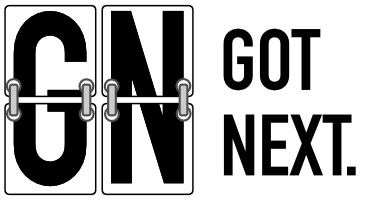
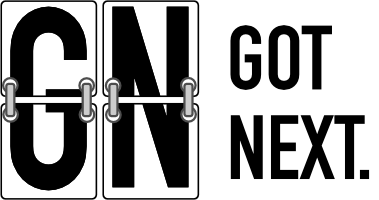
Make title tab as well; add formatting

diff --git a/app/assets/stylesheets/modules/_header.scss b/app/assets/stylesheets/modules/_header.scss
@@ -10,7 +10,7 @@ $menu-inverse-color: $white;
   height: 100%;
   width: 100%;
   background: $menu-color;
-  z-index: 25;
+  z-index: 30;
   ul {
     text-align: center;
     text-decoration: none;
@@ -24,12 +24,34 @@ $menu-inverse-color: $white;
   }
 }
 
-#title-image {
+#title-image-large {
   position: absolute;
   top: 0;
   left: 0;
+  margin-top: 1rem;
   height: $menu-dimension;
-  margin: .8rem 0 0 .8rem;
+  padding: .8rem;
+  background: $white;
+  z-index: 25;
+  border: 2px solid $body-font-color;
+  border-left: 0;
+  border-top-right-radius: .5rem;
+  border-bottom-right-radius: .5rem;
+}
+
+#title-image-small {
+  position: absolute;
+  top: 0;
+  left: 0;
+  margin-top: 1rem;
+  height: 5rem;
+  padding: .8rem;
+  background: $white;
+  z-index: 25;
+  border: 2px solid $body-font-color;
+  border-left: 0;
+  border-top-right-radius: .5rem;
+  border-bottom-right-radius: .5rem;
 }
 
 #tab-profile {
@@ -44,11 +66,15 @@ $menu-inverse-color: $white;
     // border: $menu-color solid;
     // border-width: .1rem 0 .1rem .1rem;
     margin-top: 1rem;
+    border-top-left-radius: .5rem;
+    border-bottom-left-radius: .5rem;
     img {
       display: inline-block;
       height: $menu-dimension;
       width: $menu-dimension;
       vertical-align: top;
+      border-top-left-radius: .5rem;
+      border-bottom-left-radius: .5rem;
     }
     button {
       display: inline-block;
@@ -73,6 +99,8 @@ $menu-inverse-color: $white;
         width: 5rem;
         font-size: 2rem;
         background: $app-red;
+        border-top-left-radius: .5rem;
+        border-bottom-left-radius: .5rem;
         i {
           text-align: center;
           margin-left: -.2rem;

diff --git a/app/assets/javascripts/test.js b/app/assets/javascripts/test.js
@@ -5,4 +5,9 @@ $(document).ready(function() {
   $('#hidden-menu').click(function() {
     $('#hidden-menu').fadeOut()
   });
+
+  if ( $('.mapline').offset() > 50 ) {
+    $('#title-image').fadeOut();
+    console.log("yolo");
+  }
 });
